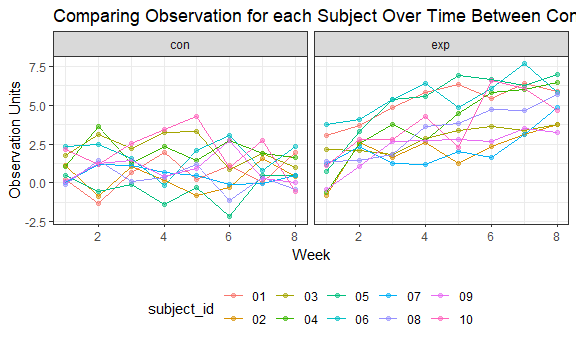
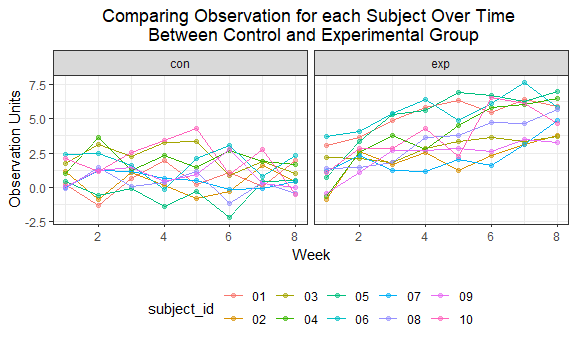
added findings for the spaghetti plot

Changed region(s): [[0.0312, 0.029, 1.0, 0.5797], [0.0, 0.2319, 0.5312, 0.6377]]

diff --git a/p8105_hw5_jl5296.md b/p8105_hw5_jl5296.md
@@ -346,10 +346,11 @@ clean_df %>%
   geom_point(alpha = .5) + geom_line() +
   facet_grid(.~arm) +
   labs(
-    title = "Comparing Observation for each Subject Over Time Between Control and Experimental Group",
+    title = "Comparing Observation for each Subject Over Time \n Between Control and Experimental Group",
     x = "Week",
     y = "Observation Units"
-  )
+  ) +
+  theme(plot.title = element_text(hjust = 0.5))
 ```
 
-<img src="p8105_hw5_jl5296_files/figure-markdown_github/unnamed-chunk-4-1.png" width="90%" />
+<img src="p8105_hw5_jl5296_files/figure-markdown_github/unnamed-chunk-4-1.png" width="90%" /> **Comment:** Overall, subjects in the experimental arm show higher observation units over time, on average, than those in the control arm.
